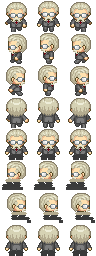
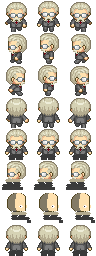
IMP: RPG batch 6 — art, interact range, chat session, tracker
- npcs: Rilla/Rowan sit-right profile heads, Bram merchant + Moss blacksmith costumes
- icons: 9 new game-icons badges + 11 material/slot icons in two-tone style
- combat/NPC interact gated to one tile (ATTACK_DISTANCE 32, X-key 32)
- shop: static preview box fills on item select
- chat: sessionId pins one LangSmith trace per open panel; no map-entry ding
- tracker: 200px/9px, Q toggle, 45s poll auto-expands on new quest

Changed region(s): [[0.7188, 0.75, 0.9688, 0.8438], [0.4062, 0.75, 0.625, 0.8438], [0.0625, 0.75, 0.2812, 0.8438]]

diff --git a/play/src/front/Components/GamePanel/GamePanel.svelte b/play/src/front/Components/GamePanel/GamePanel.svelte
@@ -1,14 +1,37 @@
 <script lang="ts">
     import { onMount } from "svelte";
+    import { get } from "svelte/store";
     import { LL } from "../../../i18n/i18n-svelte";
     import { npcRoleIconHtml } from "../../Phaser/Components/npcRoleIcons";
     import { playSfx } from "../../Services/gameSfx";
     import { claimQuest, loadQuests, questsStore } from "../../Services/quests";
 
     let expanded = $state(false);
+    let seenIds: Set<string> | null = null;
+
+    async function refresh(): Promise<void> {
+        await loadQuests();
+        const ids = new Set(get(questsStore).quests.map((quest) => quest.assignmentId));
+        if (seenIds === null) {
+            seenIds = ids;
+            return;
+        }
+        // A poll that surfaces an assignment we have never shown opens the tracker.
+        for (const id of ids) {
+            if (!seenIds.has(id)) {
+                expanded = true;
+                break;
+            }
+        }
+        seenIds = ids;
+    }
 
     onMount(() => {
-        loadQuests().catch(() => undefined);
+        refresh().catch(() => undefined);
+        const timer = window.setInterval(() => {
+            refresh().catch(() => undefined);
+        }, 45_000);
+        return () => window.clearInterval(timer);
     });
 
     function claim(action: Promise<boolean>): void {
@@ -16,7 +39,17 @@
     }
 
     function onKeyDown(event: KeyboardEvent): void {
-        if (event.key === "Escape" && expanded) expanded = false;
+        if (event.key === "Escape" && expanded) {
+            expanded = false;
+            return;
+        }
+        if (event.key !== "q" && event.key !== "Q") return;
+        if (event.ctrlKey || event.metaKey || event.altKey) return;
+        const target = event.target as HTMLElement | null;
+        if (target && (target.tagName === "INPUT" || target.tagName === "TEXTAREA" || target.isContentEditable)) {
+            return;
+        }
+        expanded = !expanded;
     }
 
     const ready = $derived($questsStore.quests.filter((quest) => quest.status === "completed"));
@@ -28,10 +61,10 @@
 
 <div
     data-testid="game-panel"
-    class="pointer-events-auto fixed right-3 top-24 z-[250] w-[224px] max-w-[86vw] rounded-md border border-white/15 bg-contrast/95 text-white shadow-[0_0_0_1px_rgba(0,0,0,.45),0_10px_30px_rgba(0,0,0,.5)] backdrop-blur-md"
+    class="pointer-events-auto fixed right-3 top-24 z-[250] w-[200px] max-w-[86vw] rounded-md border border-white/15 bg-contrast/95 text-white shadow-[0_0_0_1px_rgba(0,0,0,.45),0_10px_30px_rgba(0,0,0,.5)] backdrop-blur-md"
 >
     <header
-        class="flex items-center gap-1.5 bg-black/25 px-2 py-1 {expanded
+        class="flex items-center gap-1 bg-black/25 px-1.5 py-0.5 {expanded
             ? 'rounded-t-md border-b border-white/10'
             : 'rounded-md'}"
     >
@@ -39,13 +72,14 @@
             <!-- Icon markup comes from the fixed npcRoleIcons table, never from user input. -->
             {@html npcRoleIconHtml("quill")}<!-- eslint-disable-line svelte/no-at-html-tags -->
         </span>
-        <span class="flex-1 truncate font-mono text-[10px] font-bold uppercase tracking-widest text-pop-yellow"
+        <span class="flex-1 truncate font-mono text-[9px] font-bold uppercase tracking-widest text-pop-yellow"
             >{$LL.gamePanel.title()}</span
         >
         <button
             type="button"
-            class="rounded p-0.5 text-white/60 hover:bg-white/10 hover:text-white"
+            class="rounded p-0.5 text-[9px] text-white/50 hover:bg-white/10 hover:text-white"
             aria-label={$LL.gamePanel.title()}
+            title="Q"
             onclick={() => (expanded = !expanded)}
         >
             {expanded ? "⤡" : "⤢"}
@@ -53,38 +87,38 @@
     </header>
 
     {#if expanded}
-        <div class="max-h-[50vh] overflow-y-auto p-1.5 no-scroll-bar">
+        <div class="max-h-[40vh] overflow-y-auto p-1 no-scroll-bar">
             {#if $questsStore.loading}
-                <p class="px-1 py-2 text-xs italic text-white/50">{$LL.gamePanel.loading()}</p>
+                <p class="px-0.5 py-1 text-[10px] italic text-white/50">{$LL.gamePanel.loading()}</p>
             {:else if $questsStore.error}
-                <p class="px-1 py-2 text-xs text-red-400">{$LL.gamePanel.error()}</p>
+                <p class="px-0.5 py-1 text-[10px] text-red-400">{$LL.gamePanel.error()}</p>
             {:else if orderedQuests.length === 0}
-                <p class="px-1 py-2 text-xs text-white/50">{$LL.gamePanel.noQuests()}</p>
+                <p class="px-0.5 py-1 text-[10px] text-white/50">{$LL.gamePanel.noQuests()}</p>
             {:else}
                 {#each orderedQuests as quest (quest.assignmentId)}
                     <div
-                        class="mb-1 rounded border px-1.5 py-1 leading-tight last:mb-0 {quest.status === 'completed'
+                        class="mb-0.5 rounded border px-1 py-0.5 leading-tight last:mb-0 {quest.status === 'completed'
                             ? 'border-emerald-400/40 bg-emerald-400/10'
                             : 'border-white/10 bg-white/5'}"
                     >
-                        <div class="flex items-center gap-1.5">
-                            <span class="flex-1 truncate text-[10px] font-medium">{quest.title}</span>
+                        <div class="flex items-center gap-1">
+                            <span class="flex-1 truncate text-[9px] font-medium">{quest.title}</span>
                             {#if quest.status === "completed"}
                                 <button
                                     type="button"
-                                    class="rounded border border-pop-yellow/60 bg-pop-yellow/20 px-1 py-0.5 font-mono text-[9px] font-bold text-pop-yellow hover:bg-pop-yellow/35"
+                                    class="rounded border border-pop-yellow/60 bg-pop-yellow/20 px-1 py-px font-mono text-[8px] font-bold text-pop-yellow hover:bg-pop-yellow/35"
                                     onclick={() => claim(claimQuest(quest.assignmentId))}
                                 >
                                     {$LL.gamePanel.claim()}
                                 </button>
                             {:else}
-                                <span class="text-[9px] text-white/60"
+                                <span class="text-[8px] text-white/60"
                                     >{Math.min(quest.progress, quest.count)}/{quest.count}</span
                                 >
                             {/if}
                         </div>
                         {#if quest.status !== "completed"}
-                            <div class="mt-0.5 h-0.5 overflow-hidden rounded bg-white/10">
+                            <div class="mt-0.5 h-px overflow-hidden rounded bg-white/10">
                                 <div
                                     class="h-full bg-gradient-to-r from-primary to-pop-yellow"
                                     style="width: {Math.min(100, (quest.progress / Math.max(1, quest.count)) * 100)}%"

diff --git a/play/src/front/Components/NpcChat/NpcChatPanel.svelte b/play/src/front/Components/NpcChat/NpcChatPanel.svelte
@@ -1,5 +1,4 @@
 <script lang="ts">
-    import { onMount } from "svelte";
     import { get } from "svelte/store";
     import { LL } from "../../../i18n/i18n-svelte";
     import { playSfx } from "../../Services/gameSfx";
@@ -14,14 +13,22 @@
     let text = $state("");
     let logElement: HTMLDivElement | undefined = $state();
     let inputElement: HTMLInputElement | undefined = $state();
+    let lastDingedNpc: string | null = null;
 
-    onMount(() => playSfx("ding"));
-
-    // The panel lives inside an {#if}, so onMount runs at app start, not when an NPC opens —
-    // focus from an effect keyed on the open NPC, and again shortly after, because the
-    // Phaser canvas can grab focus while the modal mounts.
+    // This component is always mounted (only the dialog is in an {#if}), so onMount would
+    // ding on map entry — ding when an NPC opens instead, and refocus because Phaser can
+    // steal focus while the modal mounts.
     $effect(() => {
-        if (!$npcChatStore.npc || !inputElement) return;
+        const npc = $npcChatStore.npc;
+        if (!npc) {
+            lastDingedNpc = null;
+            return;
+        }
+        if (lastDingedNpc !== npc.id) {
+            lastDingedNpc = npc.id;
+            playSfx("ding");
+        }
+        if (!inputElement) return;
         const el = inputElement;
         const raf = requestAnimationFrame(() => el.focus({ preventScroll: true }));
         const timer = window.setTimeout(() => el.focus({ preventScroll: true }), 150);
@@ -45,7 +52,7 @@
         if (get(inputFormFocusStore)) return;
         const target = event.target as HTMLElement | null;
         if (target && (target.tagName === "INPUT" || target.tagName === "TEXTAREA" || target.isContentEditable)) return;
-        const npc = nearestNpc(120);
+        const npc = nearestNpc(32);
         if (npc) {
             closeLeaderboard();
             closeInventory();
@@ -58,7 +65,7 @@
             }
             return;
         }
-        const board = nearestBoard(120);
+        const board = nearestBoard(32);
         if (board) {
             closeNpcChat();
             closeShop();

diff --git a/play/src/front/Services/npcList.ts b/play/src/front/Services/npcList.ts
@@ -15,6 +15,8 @@ export interface NpcChatMessage {
 
 export interface NpcChatState {
     npc: NpcInfo | null;
+    /** One id per open panel — the server pins the LangSmith trace to it. */
+    sessionId: string | null;
     messages: NpcChatMessage[];
     sending: boolean;
     error: string | null;
@@ -23,6 +25,7 @@ export interface NpcChatState {
 export const npcListStore = writable<NpcInfo[]>([]);
 export const npcChatStore = writable<NpcChatState>({
     npc: null,
+    sessionId: null,
     messages: [],
     sending: false,
     error: null,
@@ -47,11 +50,11 @@ export async function loadNpcList(): Promise<NpcInfo[]> {
 
 export function openNpcChat(npc: NpcInfo): void {
     const messages: NpcChatMessage[] = npc.greeting ? [{ role: "assistant", content: npc.greeting }] : [];
-    npcChatStore.set({ npc, messages, sending: false, error: null });
+    npcChatStore.set({ npc, sessionId: crypto.randomUUID(), messages, sending: false, error: null });
 }
 
 export function closeNpcChat(): void {
-    npcChatStore.set({ npc: null, messages: [], sending: false, error: null });
+    npcChatStore.set({ npc: null, sessionId: null, messages: [], sending: false, error: null });
 }
 
 /** Nearest spawned NPC within `range` pixels of the player, or null. */
@@ -100,6 +103,7 @@ export async function sendNpcMessage(text: string): Promise<void> {
             headers: { Authorization: `Bearer ${token}`, "Content-Type": "application/json" },
             body: JSON.stringify({
                 messages: history.map(({ role, content }) => ({ role, content })),
+                sessionId: state.sessionId,
             }),
         });
         if (!response.ok || !response.body) throw new Error(`HTTP ${response.status}`);

diff --git a/play/src/front/Components/NpcChat/ShopPanel.svelte b/play/src/front/Components/NpcChat/ShopPanel.svelte
@@ -295,15 +295,21 @@
                     </div>
                 </div>
 
-                <!-- Middle: selection + station + action -->
+                <!-- Middle: static preview box + station + action -->
                 <div class="flex w-[28%] flex-col items-center gap-2">
-                    <div class="flex h-14 w-14 items-center justify-center">
+                    <div
+                        class="flex h-20 w-24 items-center justify-center rounded border-2 border-white/20 bg-black/40 shadow-[inset_0_0_0_1px_rgba(0,0,0,.5)]"
+                        data-testid="shop-preview"
+                        aria-label="Item preview"
+                    >
                         {#if selectedSlot}
                             <img
                                 src={iconUrl(itemDef(selectedSlot.id).icon)}
-                                alt=""
-                                class="h-12 w-12 [image-rendering:pixelated]"
+                                alt={selectedSlot.name}
+                                class="h-14 w-14 [image-rendering:pixelated]"
                             />
+                        {:else}
+                            <span class="font-mono text-[9px] uppercase tracking-widest text-white/35">—</span>
                         {/if}
                     </div>
                     {#if action}

diff --git a/play/tests/front/Services/monsterStream.test.ts b/play/tests/front/Services/monsterStream.test.ts
@@ -1,6 +1,7 @@
 import { describe, expect, it, vi } from "vitest";
 
 import {
+    ATTACK_DISTANCE,
     monsterEventSnapshot,
     monsterSnapshotCommands,
     nearestWithin,
@@ -89,6 +90,12 @@ describe("monsterEventSnapshot", () => {
 });
 
 describe("nearestWithin", () => {
+    it("attacks only within one map tile", () => {
+        expect(ATTACK_DISTANCE).toBe(32);
+        expect(nearestWithin([monster("a", { x: 31 })], 0, 0, ATTACK_DISTANCE)?.id).toBe("a");
+        expect(nearestWithin([monster("a", { x: 33 })], 0, 0, ATTACK_DISTANCE)).toBeNull();
+    });
+
     it("returns null when there are no monsters", () => {
         expect(nearestWithin([], 0, 0, 100)).toBeNull();
     });

diff --git a/play/src/front/Services/monsterStream.ts b/play/src/front/Services/monsterStream.ts
@@ -23,7 +23,8 @@ interface AttackResult {
 const TEXTURE_PATH = "tilesets/WA_Monsters.png";
 // WA_Monsters.png holds two 32x32 frames per monster, in this order.
 const FRAME_START: Record<string, number> = { slime: 0, goblin: 2, bat: 4 };
-const ATTACK_DISTANCE = 96;
+/** One map tile — attacks only land from adjacent. */
+export const ATTACK_DISTANCE = 32;
 const ATTACK_COOLDOWN_MS = 500;
 const CORPSE_DELAY_MS = 400;
 

diff --git a/play/CLAUDE.md b/play/CLAUDE.md
@@ -103,8 +103,8 @@ Do not edit generated `src/i18n/i18n-*.ts` files directly.
   RpgDialog and FloatingWindow each bind their own `svelte:window` keydown handler.
 - Shop NPCs open `NpcChat/ShopPanel.svelte` as a wide `GameWindow/FloatingWindow` laid out
   like a craft station (`Services/shop.ts` store): left parchment slot grid of pixel icons
-  (`Inventory/items.ts` `iconUrl`), middle pane with the per-shop station glyph + the
-  primary action (BUY/SELL/REROLL/USE, green CREATE-style button), right DESCRIPTION
+  (`Inventory/items.ts` `iconUrl`), a static preview box in the middle that fills with the
+  selected item's art, the per-shop station glyph + the primary action (BUY/SELL/REROLL/USE, green CREATE-style button), right DESCRIPTION
   parchment with stats as `◆` lines — Bram/Nell catalogs, Rilla sell-back, Moss reroll
   shows `◆ +roll` / `◆ max +rollMax`, Sable market stock with a closing countdown (its
   entity only exists while `/api/game/market/status` says open, re-checked every 30s).
@@ -123,7 +123,8 @@ Do not edit generated `src/i18n/i18n-*.ts` files directly.
   rendered by MainLayout directly and always visible — it has no close control, so there is
   no open/closed store and no action-bar entry. Collapsed it shows only the header bar
   (title + expand control); expanded it lists every quest as compact rows
-  (224px wide, 10px type, hairline progress bars)
+  (200px wide, 9px type, hairline progress bars; **Q** toggles; a 45s poll auto-expands
+  when a new assignmentId appears)
   (`Services/quests.ts`, claim). Chrome matches the NPC panels
   (navy frame, mono pop-yellow header) with purple→gold gradient progress bars, gold CLAIM
   buttons and an emerald tint on ready quests; Esc on an expanded tracker collapses it.
